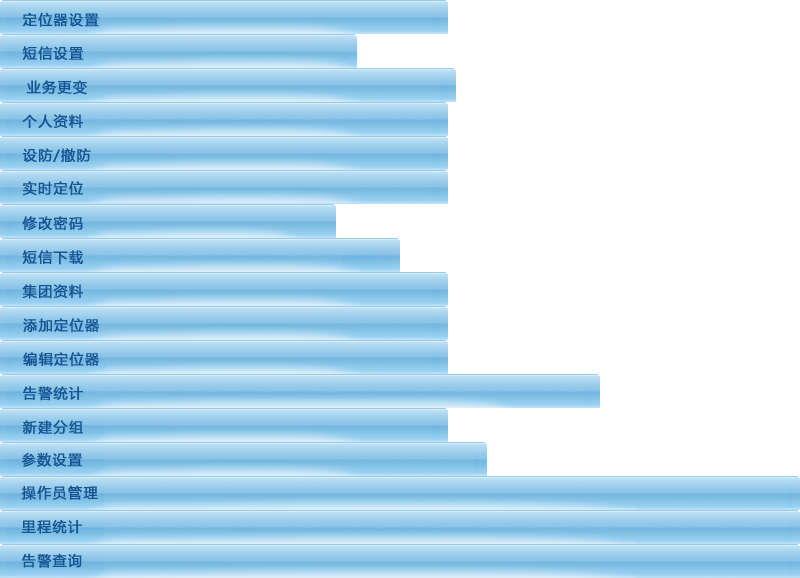
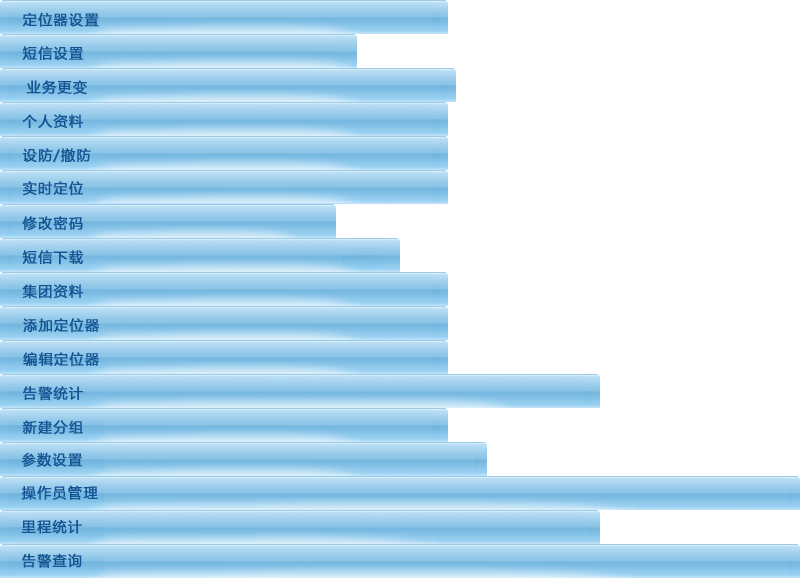
-- 1、告警查询、告警统计、里程统计不做时间限制 -- 2、告警统计、里程统计的table设置相同宽度
git-svn-id: http://www.ichebao.net/svn/acb/trunk@967 fbfde4e3-4bc3-4d81-a63b-7b332075e0cf

Changed region(s): [[0.5, 0.872, 1.0, 0.9654]]

diff --git a/apps/uweb/static/js/searchRecord.js b/apps/uweb/static/js/searchRecord.js
@@ -392,6 +392,7 @@ window.dlf.fn_initTimeControl = function(str_who) {
 	obj_stTime.click(function() {	// 初始化起始时间，并做事件关联
 		WdatePicker({el: str_inputStartTime, dateFmt: 'yyyy-MM-dd HH:mm:ss', readOnly: true, isShowClear: false, maxDate: '#F{$dp.$D(\''+str_inputEndTime+'\')}', qsEnabled: false,
 		onpicked: function() {
+			/*
 			var obj_endDate = $dp.$D(str_inputEndTime), 
 				str_endString = obj_endDate.y+'-'+obj_endDate.M+'-'+obj_endDate.d+' '+obj_endDate.H+':'+obj_endDate.m+':'+obj_endDate.s,
 				str_endTime = dlf.fn_changeDateStringToNum(str_endString), 
@@ -399,12 +400,14 @@ window.dlf.fn_initTimeControl = function(str_who) {
 			if ( str_endTime - str_beginTime > WEEKMILISECONDS) {
 				obj_endTime.val(dlf.fn_changeNumToDateString(str_beginTime + WEEKMILISECONDS));
 			}
+			*/
 		}});
 	}).val(str_nowDate+' 00:00:00');
 	
 	obj_endTime.click(function() {	// 初始化结束时间，并做事件关联
 		WdatePicker({el: str_inputEndTime, dateFmt: 'yyyy-MM-dd HH:mm:ss', readOnly: true, isShowClear: false, minDate: '#F{$dp.$D(\''+str_inputStartTime+'\')}', qsEnabled: false, 
 			onpicked: function() {
+				/*
 				var obj_beginDate = $dp.$D(str_inputStartTime), 
 					str_beginString = obj_beginDate.y+'-'+obj_beginDate.M+'-'+obj_beginDate.d+' '+obj_beginDate.H+':'+obj_beginDate.m+':'+obj_beginDate.s,
 					str_beginTime = dlf.fn_changeDateStringToNum(str_beginString), 
@@ -412,6 +415,7 @@ window.dlf.fn_initTimeControl = function(str_who) {
 				if ( str_endTime - str_beginTime > WEEKMILISECONDS) {
 					obj_stTime.val(dlf.fn_changeNumToDateString(str_endTime - WEEKMILISECONDS));
 				}
+				*/
 			}
 		});
 	}).val(str_nowDate+' '+dlf.fn_changeNumToDateString(n_currentDate, 'sfm'));

diff --git a/apps/uweb/static/css/css.css b/apps/uweb/static/css/css.css
@@ -546,8 +546,8 @@ body {
 	background-position: 0px -510px;
 }
 .mileageTitle .close {
-	left: 776px;
-	_left: 774px;
+	left: 576px;
+	_left: 574px;
 }
 .eventSearchTitle {
 	background-position: 0 -544px;
@@ -1978,8 +1978,7 @@ body {
 .staticsTable {
 	border: 0 none;
     border-collapse: collapse;
-    margin-left: 32px;
-    width: 529px;
+    width: 569px;
 }
 .staticsTable tr {
 	border: 1px solid #c1d2e5;
@@ -2278,14 +2277,14 @@ legend {
 }
 /*-------报表统计---*/
 #mileageWrapper, .mileageTitle {
-	width: 800px;
+	width: 600px;
 }
 .mileageContent {
-	width: 800px;
+	width: 600px;
 	height: 500px;
 }
 .mileageTable {
-	width: 755px;
+	width: 555px;
 }
 /*报表统计二级菜单*/
 .countUlIetm {

diff --git a/apps/uweb/handlers/event.py b/apps/uweb/handlers/event.py
@@ -84,7 +84,9 @@ class EventHandler(BaseHandler):
             tids = tids if tids else [self.current_user.tid, ]
             tids = [str(tid) for tid in tids]
             # the interval between start_time and end_time is one week
-            if (int(end_time) - int(start_time)) > UWEB.QUERY_INTERVAL:
+            if self.current_user.cid != UWEB.DUMMY_CID: # no checks for enterprise
+                pass
+            elif (int(end_time) - int(start_time)) > UWEB.QUERY_INTERVAL:
                 self.write_ret(ErrorCode.QUERY_INTERVAL_EXCESS)
                 return
 

diff --git a/apps/uweb/handlers/statistic.py b/apps/uweb/handlers/statistic.py
@@ -41,7 +41,10 @@ class StatisticHandler(BaseHandler):
             end_time = data.end_time
             tids = str_to_list(data.tids)
             # the interval between start_time and end_time is one week
-            if (int(end_time) - int(start_time)) > UWEB.QUERY_INTERVAL:
+
+            if self.current_user.cid != UWEB.DUMMY_CID: # no checks for enterprise
+                pass
+            elif (int(end_time) - int(start_time)) > UWEB.QUERY_INTERVAL:
                 self.write_ret(ErrorCode.QUERY_INTERVAL_EXCESS)
                 return
 

diff --git a/apps/uweb/handlers/mileage.py b/apps/uweb/handlers/mileage.py
@@ -42,7 +42,10 @@ class MileageHandler(BaseHandler):
 
         try:
             # the interval between start_time and end_time is one week
-            if (int(end_time) - int(start_time)) > UWEB.QUERY_INTERVAL:
+
+            if self.current_user.cid != UWEB.DUMMY_CID: # no checks for  enterprise
+                pass
+            elif (int(end_time) - int(start_time)) > UWEB.QUERY_INTERVAL:
                 self.write_ret(ErrorCode.QUERY_INTERVAL_EXCESS)
                 return
 
